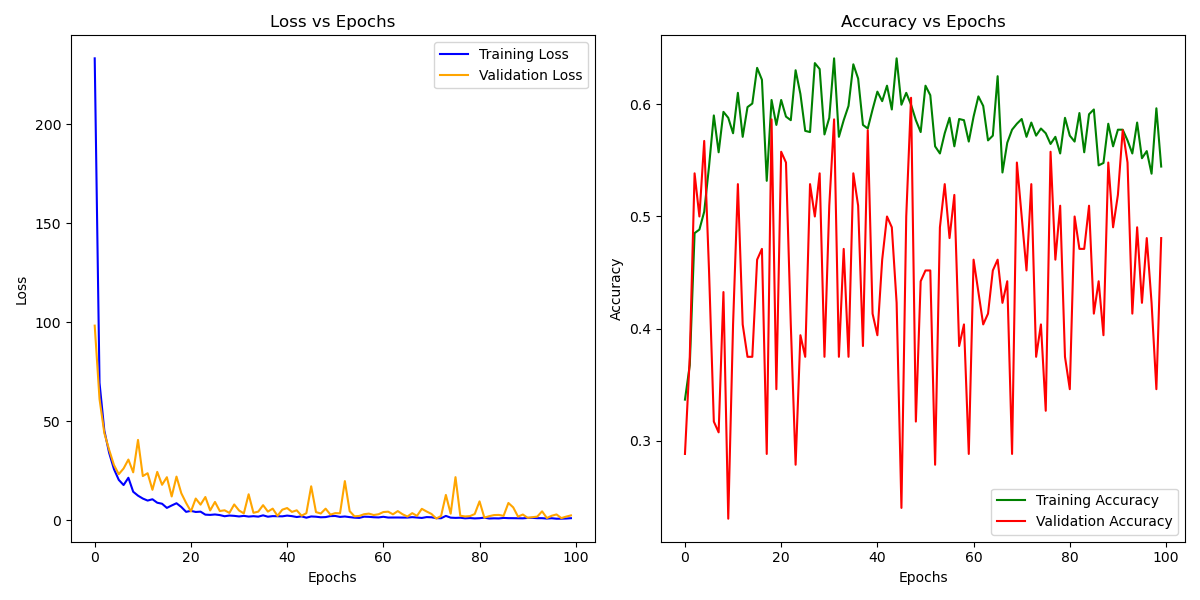
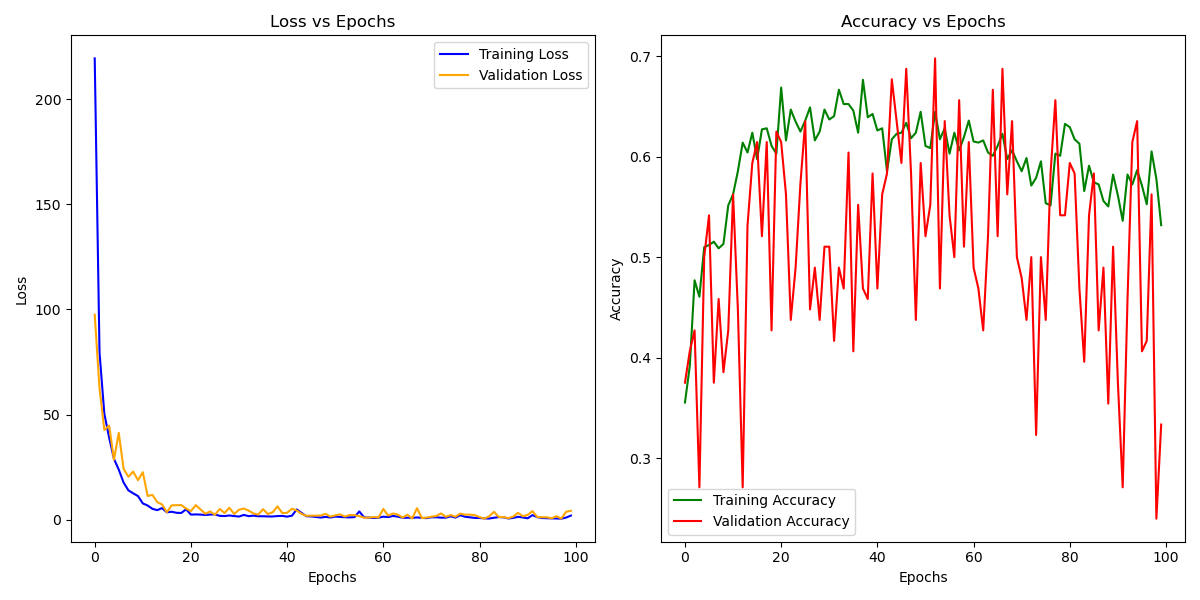
added mse loss and got the metrics for ldmfcst0 and ldmfcst1

diff --git a/cpc_loss.py b/cpc_loss.py
@@ -11,7 +11,7 @@ import sys
 import numpy as np
 from torch import matmul, diag
 from torch.nn import Module, LogSoftmax
-
+import torch.nn.functional as F
 
 
 class CPC_loss_no_classes(Module):
@@ -135,3 +135,62 @@ class CPC_loss(Module):
         
         return loss
 
+
+
+
+class CPC_mse_loss(Module):
+    """
+    The CPC mse loss.
+    
+    _____________________________________________________________________________________________
+    Input parameters:
+    
+    future_predicted_timesteps: The future predicted timesteps (integer or a list of integers)
+        
+    Z_future_timesteps: The encodings of the future timesteps, i.e. z_{t+k} where k in
+                        [1, 2, ..., num_future_predicted_timesteps].
+    
+    predicted_future_Z: The predicted future embeddings z_{t+k} where k in
+                        [1, 2, ..., num_future_predicted_timesteps]
+    
+    _____________________________________________________________________________________________
+    
+    """
+    
+    def __init__(self, future_predicted_timesteps=12):
+        super().__init__()
+        
+        # We first determine whether our future_predicted_timesteps is a number or a list of numbers.
+        if isinstance(future_predicted_timesteps, int):
+            # future_predicted_timesteps is a number, so we have future_predicted_timesteps loss calculations
+            self.future_predicted_timesteps = np.arange(1, future_predicted_timesteps + 1)
+            
+        elif isinstance(future_predicted_timesteps, list):
+            # future_predicted_timesteps is a list of numbers, so we have len(future_predicted_timesteps) loss calculations
+            self.future_predicted_timesteps = future_predicted_timesteps
+            
+        else:
+            sys.exit('Configuration setting "future_predicted_timesteps" must be either an integer or a list of integers!')
+
+    import torch.nn.functional as F
+
+    def forward(self, Z_future_timesteps, predicted_future_Z):
+        loss = 0
+        num_future_predicted_timesteps = len(self.future_predicted_timesteps)
+        batch_size = Z_future_timesteps.size()[1]
+        
+        # Iterate through each future timestep and compute the MSE loss
+        i = 0
+        for k in self.future_predicted_timesteps:
+            # Compute MSE loss between the true future timestep (Z_future_timesteps[k-1])
+            # and the predicted future timestep (predicted_future_Z[i])
+            mse_loss = F.mse_loss(predicted_future_Z[i], Z_future_timesteps[k-1])
+            loss += mse_loss
+            i += 1
+            
+        # Normalize the loss by dividing by the total number of future timesteps
+        loss = loss / num_future_predicted_timesteps
+        
+        return loss
+
+    

diff --git a/train_cpc_model.py b/train_cpc_model.py
@@ -223,7 +223,7 @@ if __name__ == '__main__':
                 hidden = None
             
             # Open the log file for writing
-            log_file = open(f"logs/epochlogs/epochlog_{conf.ar_model_params['type']}_ldmfcst{conf.w_use_ldm_params}_k{max_future_timestep}_rnd{conf.random_seed}.txt", "w")
+            log_file = open(f"logs/epochlogs/epochlog_{conf.ar_model_params['type']}_ldmfcst{conf.w_use_ldm_params}_k{max_future_timestep}_rnd{conf.random_seed}_{conf.loss_flag}.txt", "w")
 
             # Store the features/embeddings
             Z_feats_training = []
@@ -556,7 +556,7 @@ if __name__ == '__main__':
             # Plot losses (training and validation)
 
     # Define the file path for saving the metrics
-    metrics_file = os.path.join('metrics', f"metrics_{conf.ar_model_params['type']}_ldmfcst{conf.w_use_ldm_params}_{conf.future_predicted_timesteps}_rnd{conf.random_seed}")
+    metrics_file = os.path.join('metrics', f"metrics_{conf.ar_model_params['type']}_ldmfcst{conf.w_use_ldm_params}_{conf.future_predicted_timesteps}_rnd{conf.random_seed}_{conf.loss_flag}")
 
     # Dump the results into the metrics folder
     with open(metrics_file, 'wb') as pickle_file:

diff --git a/plot_figures.py b/plot_figures.py
@@ -3,9 +3,9 @@ import numpy as np
 import matplotlib.pyplot as plt
 
 # Define your variables
-ar_type = 'gru'
-use_ldm_params = 0
-k = 12
+ar_type = 'ldm'
+use_ldm_params = 1
+k = 2
 rnd_seeds = [21, 22, 23, 24, 25]
 pickle_files = [f"metrics/metrics_{ar_type}_ldmfcst{use_ldm_params}_{k}_rnd{rnd_seed}" for rnd_seed in rnd_seeds]
 
@@ -69,6 +69,8 @@ plt.fill_between(range(len(avg_metrics['epoch_acc_validation'])), min_metrics['e
 plt.xlabel('Epochs'); plt.ylabel('Accuracy'); plt.title(f'avg test acc: %{100*avg_test_acc:3.3f}'); plt.legend()
 
 # Adjust layout and save the figure
+file_name = f"figs/epochs_{ar_type}_ldmfcst{use_ldm_params}_k{k}.png"
 plt.tight_layout()
-plt.savefig(f"figs/epochs_{ar_type}_ldmfcst{use_ldm_params}_k{k}.png")
+plt.savefig(file_name)
 plt.show()
+print(f"Saved figure as {file_name}")

diff --git a/confs/mses/conf_train_ldmcpc_rnd21.py b/confs/mses/conf_train_ldmcpc_rnd21.py
@@ -10,7 +10,7 @@ The configuration file for train_cpc_model.py using the original CPC implementat
 import argparse
 
 # The hyperparameters for our training and testing process
-max_epochs = 150
+max_epochs = 2
 patience = 150
 dropout = 0.0
 batch_size = 8
@@ -56,7 +56,8 @@ rnn_models_used_in_ar_model = 0
 dataset_name = 'CPCDataset' #*
 
 # Define our loss function that we want to use from the file cpc_loss.py
-loss_name = 'CPC_loss_no_classes'
+loss_name = 'CPC_mse_loss' # 'CPC_loss_no_classes' | 'CPC_mse_loss'
+loss_flag = 'mse' if loss_name == 'CPC_mse_loss' else 'nce'
 
 # The hyperparameters for the loss function
 loss_params = {'future_predicted_timesteps': future_predicted_timesteps}

diff --git a/confs/conf_train_cpc_model.py b/confs/conf_train_cpc_model.py
@@ -54,7 +54,8 @@ rnn_models_used_in_ar_model = 1
 dataset_name = 'CPC_logmel_dataset'
 
 # Define our loss function that we want to use from the file cpc_loss.py
-loss_name = 'CPC_loss_no_classes'
+loss_name = 'CPC_mse_loss' # 'CPC_loss_no_classes' | 'CPC_mse_loss'
+loss_flag = 'mse' if loss_name == 'CPC_mse_loss' else 'nce'
 
 # The hyperparameters for the loss function
 loss_params = {'future_predicted_timesteps': future_predicted_timesteps}

diff --git a/confs/rnds/ldm_ldmfcst0/conf_ldm_ldmfcst0_rnd21.py b/confs/rnds/ldm_ldmfcst0/conf_ldm_ldmfcst0_rnd21.py
@@ -24,7 +24,7 @@ num_frames_encoding = 128
 # giving a list of numbers will result in discrete timesteps defined by the list. Giving one number
 # inside a list (e.g. [12]) will make the model predict only one future timestep.
 # NOTE: The first future timestep is 1, not 0
-future_predicted_timesteps = 3
+future_predicted_timesteps = 2
 
 # Flags for training and testing a CPC model
 train_model = 1

diff --git a/confs/rnds/ldm_ldmfcst0/conf_ldm_ldmfcst0_rnd22.py b/confs/rnds/ldm_ldmfcst0/conf_ldm_ldmfcst0_rnd22.py
@@ -24,7 +24,7 @@ num_frames_encoding = 128
 # giving a list of numbers will result in discrete timesteps defined by the list. Giving one number
 # inside a list (e.g. [12]) will make the model predict only one future timestep.
 # NOTE: The first future timestep is 1, not 0
-future_predicted_timesteps = 3
+future_predicted_timesteps = 2
 
 # Flags for training and testing a CPC model
 train_model = 1

diff --git a/confs/rnds/ldm_ldmfcst0/conf_ldm_ldmfcst0_rnd23.py b/confs/rnds/ldm_ldmfcst0/conf_ldm_ldmfcst0_rnd23.py
@@ -24,7 +24,7 @@ num_frames_encoding = 128
 # giving a list of numbers will result in discrete timesteps defined by the list. Giving one number
 # inside a list (e.g. [12]) will make the model predict only one future timestep.
 # NOTE: The first future timestep is 1, not 0
-future_predicted_timesteps = 3
+future_predicted_timesteps = 2
 
 # Flags for training and testing a CPC model
 train_model = 1

diff --git a/confs/rnds/ldm_ldmfcst0/conf_ldm_ldmfcst0_rnd24.py b/confs/rnds/ldm_ldmfcst0/conf_ldm_ldmfcst0_rnd24.py
@@ -24,7 +24,7 @@ num_frames_encoding = 128
 # giving a list of numbers will result in discrete timesteps defined by the list. Giving one number
 # inside a list (e.g. [12]) will make the model predict only one future timestep.
 # NOTE: The first future timestep is 1, not 0
-future_predicted_timesteps = 3
+future_predicted_timesteps = 2
 
 # Flags for training and testing a CPC model
 train_model = 1

diff --git a/confs/rnds/ldm_ldmfcst0/conf_ldm_ldmfcst0_rnd25.py b/confs/rnds/ldm_ldmfcst0/conf_ldm_ldmfcst0_rnd25.py
@@ -24,7 +24,7 @@ num_frames_encoding = 128
 # giving a list of numbers will result in discrete timesteps defined by the list. Giving one number
 # inside a list (e.g. [12]) will make the model predict only one future timestep.
 # NOTE: The first future timestep is 1, not 0
-future_predicted_timesteps = 3
+future_predicted_timesteps = 2
 
 # Flags for training and testing a CPC model
 train_model = 1

diff --git a/create_confs.py b/create_confs.py
@@ -4,7 +4,7 @@ import re
 # Dictionary of target words and their corresponding new values
 target_values = {
     'future_predicted_timesteps': 2, 
-    'ar_model_params': {'type': 'gru'},
+    'ar_model_params': {'type': 'ldm'},
     'w_use_ldm_params': 0,
     'num_speakers': 10,
     'max_epochs': 100,
